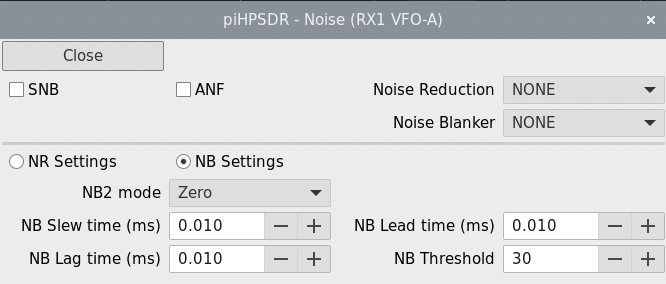
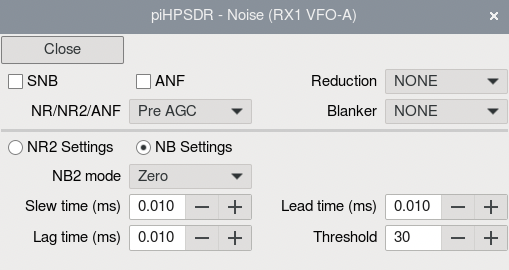
Included new WDSP-1.27 NR2 post-processing in the Manual.

diff --git a/release/LatexManual/piHPSDR-Manual.tex b/release/LatexManual/piHPSDR-Manual.tex
@@ -171,6 +171,8 @@ capability if compiled on MacOS.}
 \item{User-configurable Slider and Toolbar areas, with 0--3 slider rows and 0--3 toolbars.}
 \item{Added local replay of captured audio data (\bltt{Replay} command) -- useful to check
 captured audio data before transmitting it.}
+\item{Added the NR2 noise reduction post processing introduced with WDSP 1.27 (\bltt{Noise} menu)}
+
 \end{itemize}
 
 \medskip
@@ -357,7 +359,7 @@ is not attempted, so you can simply connect faster specifying the IP address.
 
 In rare cases (the RedPitaya STEMlab and RadioBerry cases are the only one I know of)
 it is  possible to use the TCP protocol
-rather than the standard UDP one for communicating with the radio. 
+rather than the standard UDP one for communicating with the radio.
 If the \rett{Enable TCP} box is checked, a discovery packet will be sent via TCP to the specified
 IP address, and then \pH waits up to three seconds for a response. For radios that are not
 TCP-enabled, it is thus best \textit{not} to enable TCP, to avoid this three-second delay.
@@ -2358,7 +2360,12 @@ and 5000 Hz.
 %%%%%%%%%%%%%%%%%%%%%%%%%%%%%%%%%%%%%%%%%%%%%%%%%%%%%%%%%%%%%%%%%%%%%%%%%%%%%%%%%%%%%%%%%%%%%%%%%%%%%%%%%%%%
 \section{The \texttt{Noise} Menu}
 
-
+\begin{figure}[ht]
+\center
+\includegraphics[scale=0.45]{NoiseMenu1.png}
+\caption{The \bltt{Noise} menu (with NR settings).}
+\label{fig:NoiseMenu1}
+\end{figure}
 
 With the \bltt{Noise} menu you can select a variety of noise reduction and/or
 noise blanker capabilities (Fig. \ref{fig:NoiseMenu1}). The upper part of the
@@ -2373,21 +2380,23 @@ very good at eliminating a single-tone QRM carrier in SSB modes. It goes without
 saying that activating the ANF in CW is detrimental rather than beneficial, because
 here the signal is of the type the ANF tries to eliminate.
 
-\rett{Noise Reduction}. With this pop-down menu, you can choose the type of noise reduction
+\rett{NR/NR2/ANF Position}. In the RX chain, the noise reduction can be placed before or after
+the automatic gain control (AGC). The choice made here refers to \textit{all} noise reduction
+capabilities (ANF, NR1, NR2). Having the noise reduction before AGC normally works better,
+but with sudden noise changes, having noise reduction after AGC may be preferred.
+
+\rett{Reduction}. With this pop-down menu, you can choose the type of noise reduction
 namely no noise reduction, LMS noise reduction (NR1) or spectral noise reduction (NR2).
 
-\rett{Noise Blanker}. With this pop-down menu, you can choose the type of noise blanker
+\rett{Blanker}. With this pop-down menu, you can choose the type of noise blanker
 (no noise blanker, the preemptive wide band blanker NB or the interpolating wide band
 blanker NB2 ).
 
-\begin{figure}[ht]
-\center
-\includegraphics[scale=0.45]{NoiseMenu1.png}
-\caption{The \bltt{Noise} menu (with NR settings).}
-\label{fig:NoiseMenu1}
-\end{figure}
 
-\rett{NR Settings} and \rett{NB Settings}. Choosing one of the two buttons determines whether the
+
+\rett{NR Settings} and \rett{NB Settings}.
+You see a thin horizontal line in Fig. \ref{fig:NoiseMenu1}.
+Choosing one of the two buttons just below the horizontal line determines whether the
 lower part of the menu offers fine-tuning of the noise reduction or noise blanker settings.
 The set up for changing the noise reduction settings is shown in Fig. \ref{fig:NoiseMenu1},
 below (Fig \ref{fig:NoiseMenu2}) you find the set up for changing the noise blanker settings.
@@ -2402,23 +2411,15 @@ suits your needs.
 
 \rett{NR2 Gain Method}. The available choices for the NR2 gain-per-bin calculation
 are \rett{Linear},
-\rett{Log}, \rett{Gamma}, and \rett{Trained} (\rett{Gamma} is the default). The new method
-\rett{Trained} has recently been introduced (since WDSP, version 1.25).
+\rett{Log}, \rett{Gamma}, and \rett{Trained} (\rett{Gamma} is the default).
 
 \rett{NR2 NPE Method}. The available choices for the NR2 noise power estimation
 are OSMS
 (Optimal Smoothing Minimum Statistics), MMSE (Minimum Mean-Square Error), and
 NSTAT (Non-stationary Noise Method),
-where OSMS is the default.
-
-\rett{NR/NR2/ANF Position}. In the RX chain, the noise reduction can be placed before or after
-the automatic gain control (AGC). The choice here refers to \textit{all} noise reduction
-capabilities (SNB, ANF, NR1, NR2).
-
-\rett{NR2 Artefact Elimination} The NR2 noise reduction algorithm is prone to producing
-artefacts, so there is an option to reduce such artefacts.
-Although \pH allows you to play with it, this option should nearly always be
-checked (artefact elimination ,,enabled'').
+where OSMS is the default and normally preferred. MMSE and especially NSTAT are
+better adapted to cases where the noise changes fast. With rapidly changing noise, NSTAT
+is recommended especially with the ,,trained'' gain method.
 
 \rett{NR2 Trained Thresh}. This spin-box sets a threshold (between $-5$ and $5$)
 that is only used in the NR2 \rett{Trained} method. The default value, $-0.5$, should be
@@ -2429,6 +2430,27 @@ suitable in most cases.
 very weak signals are eliminated (that is, treated as noise). In this case one can try to \textit{reduce} the
 T2 value.
 
+\rett{NR2 Post-Processing}. \textbf{New in WDSP 1.27!}
+After noise reduction, processed speech often sounds harsh to listeners, and
+this can be alleviated by mixing in a little bit of white noise at the end, and tapering the frequency
+response of the signal. All of these post-processing features can be enabled/disabled by this check box,
+while the settings (level, factor, rate, and taper) can be specified with the spin buttons below
+this check box. For details, consult the WDSP manual.
+
+\rett{Post Level}. This controls the amount of ,,white noise injection''. The range is from 0 to 100,
+the default being 15.
+
+\rett{Post Factor}. This controls the level of the white noise injected. The range is from 0 to 100,
+the default being 15.
+
+\rett{Post Rate}. This is a time constant (in seconds) and controls how fast injected white noise
+fades out. The range is from 0 to 100 secondes, and the default is 5 seconds.
+With a setting of 0, white noise is only injected during the syllables of the speech.
+
+\rett{Post Taper}. This can be used to suppress high-frequency audio that may be generated
+by the noise reduction. The range is from 0 to 100, a value of 100 corresponds to ,,tapering''
+beyond 24 kHz. The default value is 12 (taper beyond 2800 Hz) which is good for normal SSB.
+For ,,wider'' modes (ESSB or AM), this value need be increased.
 
 \textbf{Noise blankers.} A noise blanker works very different from  noise reduction, since noise blanking
 is applied to the original RX IQ samples before any frequency shifts and down-sampling take place.
